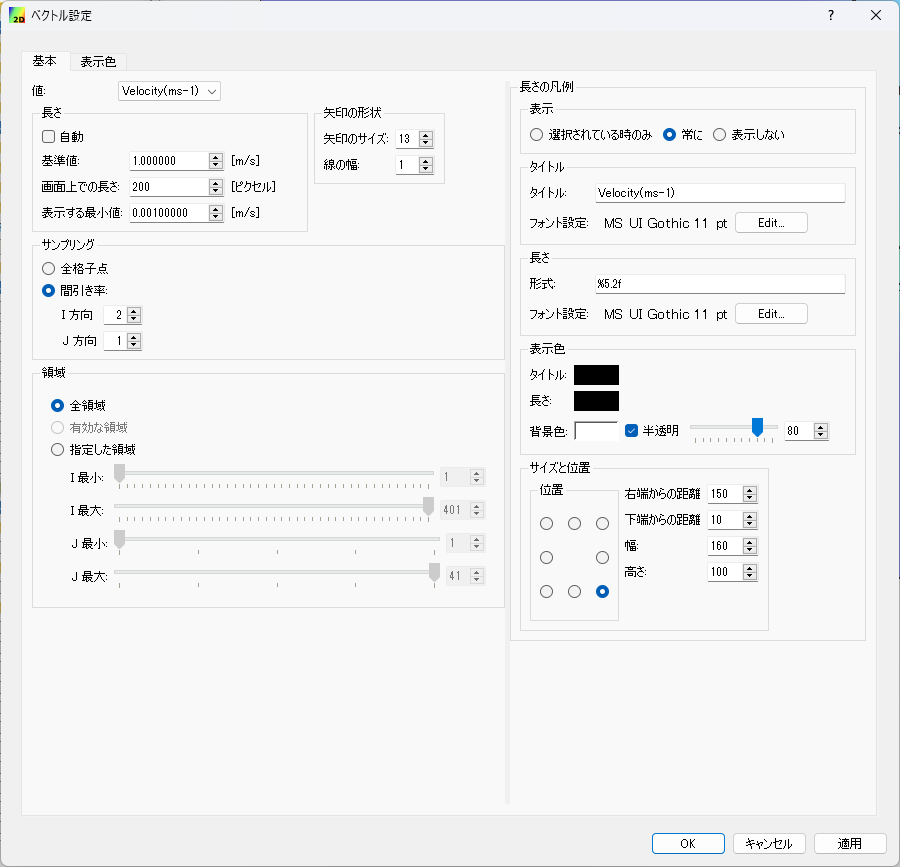
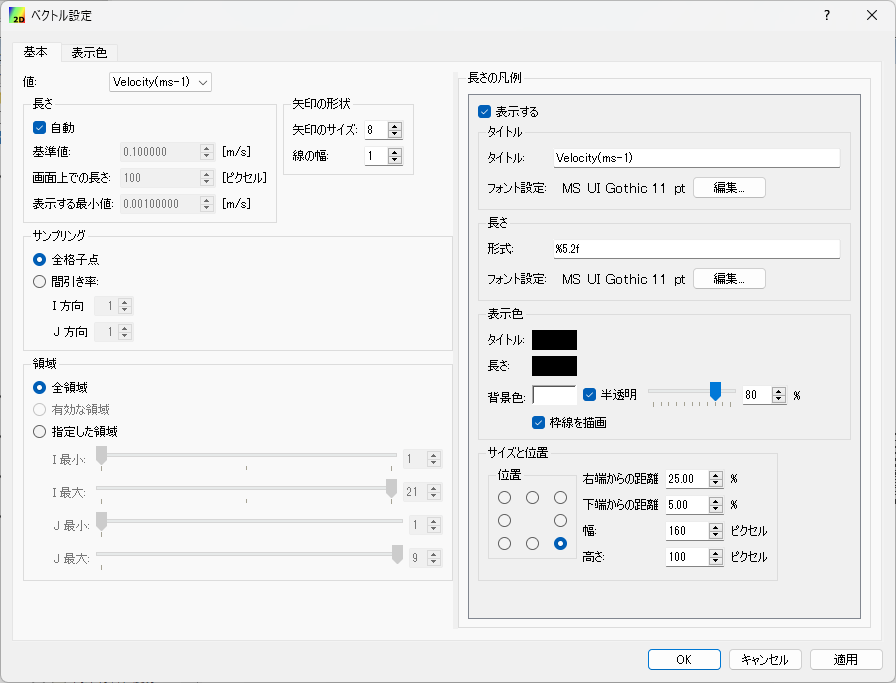
Description about colormaps, arrows updated.

diff --git a/source/02/03_arrow_function.rst b/source/02/03_arrow_function.rst
@@ -88,13 +88,9 @@ iRIC では、ベクトル量に基づいて矢印を表示する機能が、様
 長さの凡例
    長さの凡例の表示に関する設定を行います。
 
-   表示
-      以下のいずれかを指定します。
+   表示する
+      チェックすると凡例が表示されます。
 
-      * **選択されている時のみ**: オブジェクトブラウザで該当する項目が選択されている時のみ、凡例を表示します。
-      * **常に**: 常に凡例を表示します。
-      * **表示しない**: 常に凡例を非表示にします。
-   
    タイトル
       タイトルとそのフォント設定を指定します。
    
@@ -114,9 +110,6 @@ iRIC では、ベクトル量に基づいて矢印を表示する機能が、様
 
 設定項目について以下で説明します。
 
-色を指定
-   全ての矢印を同じ色で描画する場合にチェックします。チェックすると、色選択ボックスで色を指定できます。
-
 スカラー量により設定
    ベクトル量の定義位置でスカラー量も定義されていた場合、これをチェックすることで、スカラー量の値によって
    矢印ごとに色を変えて表示できます。
@@ -124,3 +117,6 @@ iRIC では、ベクトル量に基づいて矢印を表示する機能が、様
    これをチェックすると、下のカラーマップ機能が有効になります。
 
    カラーマップ機能の詳細は :ref:`sec_colormap` を参照してください。
+
+色を指定
+   全ての矢印を同じ色で描画する場合にチェックします。チェックすると、色選択ボックスで色を指定できます。
